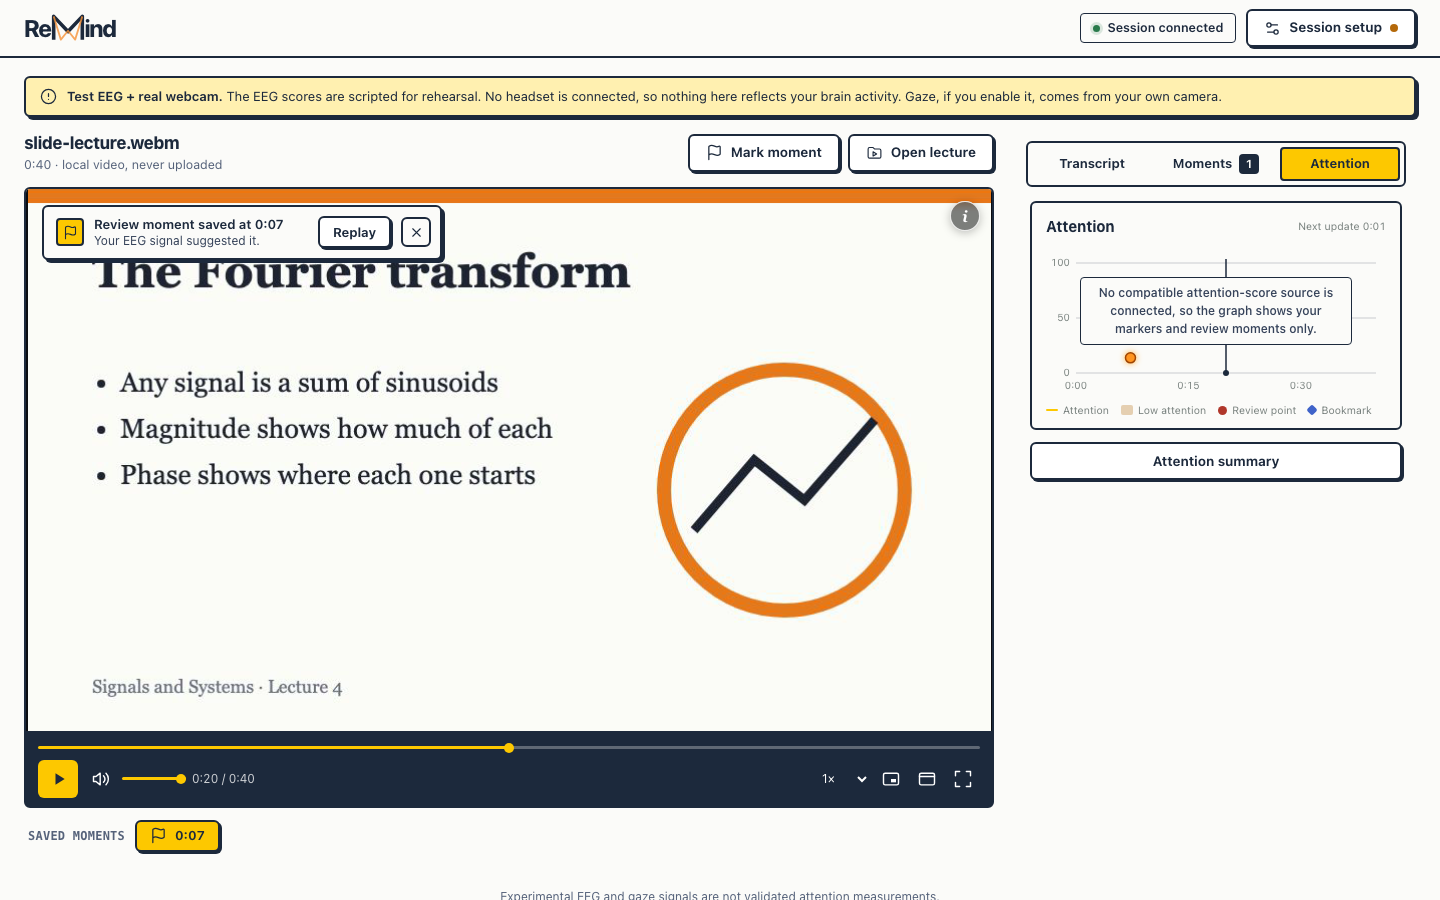
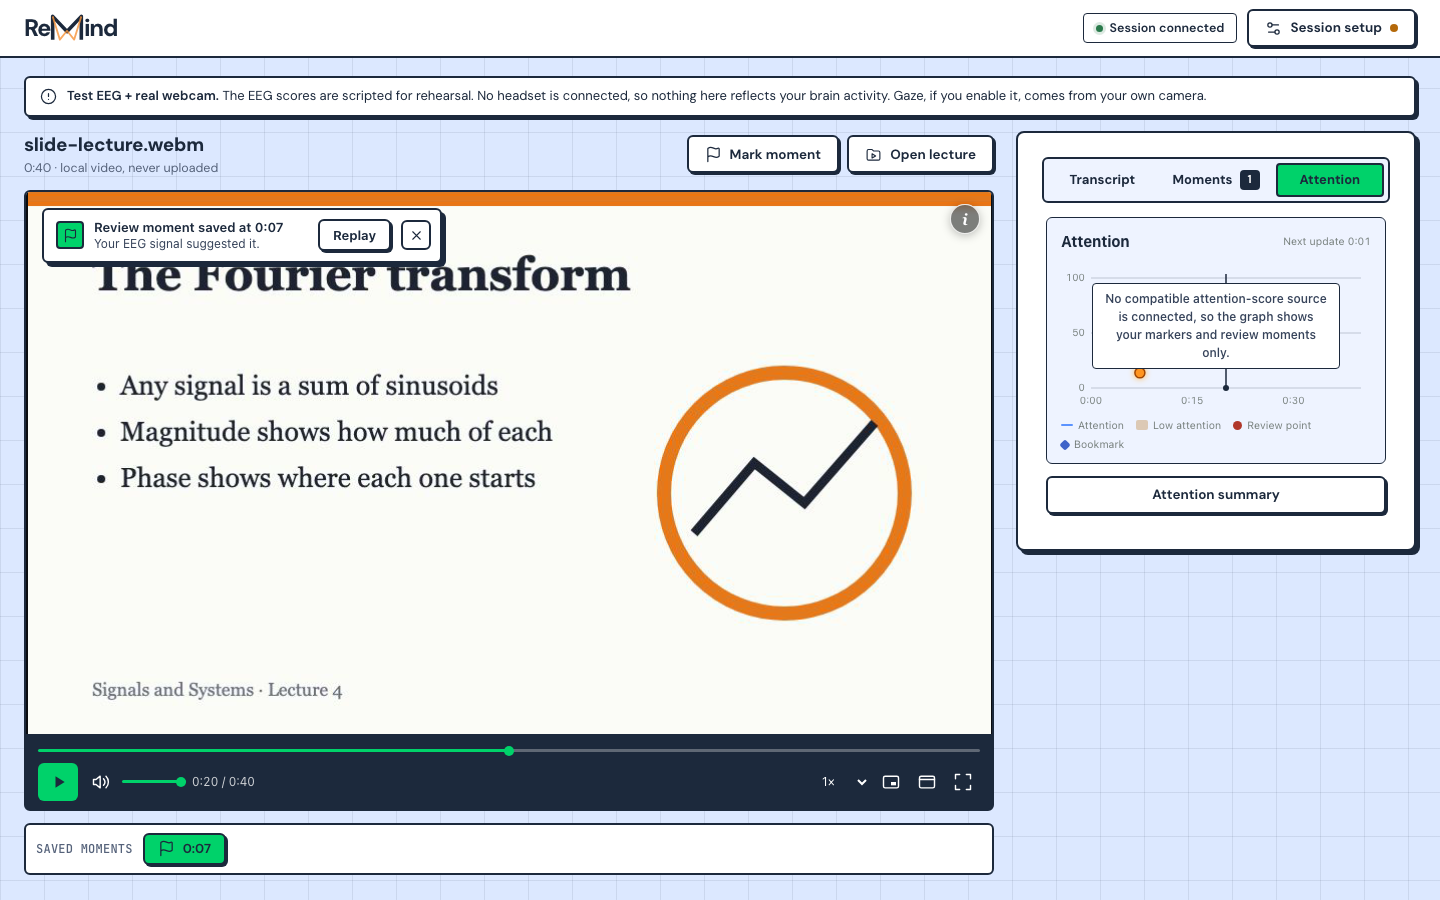
WIP: preserve unfinished ReMind redesign

diff --git a/frontend/src/product/brutal.css b/frontend/src/product/brutal.css
@@ -7,20 +7,29 @@
  */
 .app-shell[data-design='brutal'] {
   --b-ink: #1c293c;
-  --b-paper: #fbfbf9;
-  --b-wash: #f3f1ea;
-  --b-yellow: #fdc800;
-  --b-yellow-wash: #fff0b0;
-  --b-shadow: 3px 3px 0 var(--b-ink);
+  --b-paper: #ffffff;           /* solid reading surfaces */
+  --b-bg: #dce8ff;              /* pale blue page */
+  --b-grid: rgb(28 41 60 / 9%);
+  --b-wash: #eef3ff;
+  --b-blue: #5b93ff;
+  --b-blue-hover: #7da8ff;
+  --b-green: #00d26a;
+  --b-green-wash: #c9f6de;
+  --b-shadow: 4px 4px 0 var(--b-ink);
   --ui-paper: var(--b-paper); --ui-paper-2: var(--b-paper); --ui-surface: var(--b-paper); --ui-surface-2: var(--b-wash);
   --ui-ink: var(--b-ink); --ui-ink-2: #36435a; --ui-ink-3: #55627a;
   --ui-line: rgb(28 41 60 / 22%); --ui-line-strong: var(--b-ink); --ui-border: var(--b-ink);
-  --ui-accent: var(--b-yellow); --ui-accent-ink: var(--b-ink); --ui-accent-wash: var(--b-yellow-wash);
-  --ui-moment: var(--b-yellow); --ui-moment-wash: var(--b-yellow-wash);
+  --ui-accent: var(--b-blue); --ui-accent-ink: var(--b-ink); --ui-accent-wash: var(--b-green-wash);
+  --ui-moment: var(--b-green); --ui-moment-wash: var(--b-green-wash);
   --ui-radius: 6px; --ui-radius-lg: 8px;
-  background: var(--b-paper);
-  font-family: Inter, ui-sans-serif, system-ui, -apple-system, 'Segoe UI', sans-serif;
+  position: relative;
+  background-color: var(--b-bg);
+  background-image: linear-gradient(var(--b-grid) 1px, transparent 1px), linear-gradient(90deg, var(--b-grid) 1px, transparent 1px);
+  background-size: 44px 44px;
+  font-family: 'DM Sans Variable', 'DM Sans', ui-sans-serif, system-ui, -apple-system, 'Segoe UI', sans-serif;
+  --b-mono: 'JetBrains Mono Variable', 'JetBrains Mono', ui-monospace, Menlo, monospace;
 }
+.app-shell[data-design='brutal'] .topbar.glass-bar { background: var(--b-paper); }
 
 /* Top bar: flat, ruled. */
 .app-shell[data-design='brutal'] .topbar.glass-bar {
@@ -34,16 +43,17 @@
   box-shadow: 2px 2px 0 var(--b-ink); transition: transform var(--ui-fast, 0.12s) ease, box-shadow var(--ui-fast, 0.12s) ease, background-color var(--ui-fast, 0.12s) ease;
 }
 .app-shell[data-design='brutal'] :is(.btn, .button, .lp-open, .tp-open, .focus-tools button, .tp-toolbar button):not(.btn--icon):not(.btn--glass-icon):hover:not(:disabled) {
-  background: var(--b-yellow-wash); transform: translate(2px, 2px); box-shadow: 0 0 0 var(--b-ink); border-color: var(--b-ink);
+  background: var(--b-green-wash); transform: translate(2px, 2px); box-shadow: 0 0 0 var(--b-ink); border-color: var(--b-ink);
 }
 .app-shell[data-design='brutal'] :is(.btn, .button, .lp-open, .tp-open, .focus-tools button, .tp-toolbar button):not(.btn--icon):not(.btn--glass-icon):active:not(:disabled) {
   transform: translate(2px, 2px); box-shadow: 0 0 0 var(--b-ink); filter: brightness(0.96);
 }
-.app-shell[data-design='brutal'] :is(.btn--primary, .button--primary, .btn--flag, .import__action .lp-open):not(:disabled) { background: var(--b-yellow); color: var(--b-ink); }
-.app-shell[data-design='brutal'] :is(.btn--primary, .button--primary):hover:not(:disabled) { background: #ffd633; }
+.app-shell[data-design='brutal'] :is(.btn--primary, .button--primary, .import__action .lp-open):not(:disabled) { background: var(--b-blue); color: var(--b-ink); }
+.app-shell[data-design='brutal'] .btn--flag:not(:disabled) { background: var(--b-green); color: var(--b-ink); }
+.app-shell[data-design='brutal'] :is(.btn--primary, .button--primary, .import__action .lp-open):hover:not(:disabled) { background: var(--b-blue-hover); }
 .app-shell[data-design='brutal'] :is(.btn:disabled, .button:disabled, .focus-tools button:disabled) { background: var(--b-wash); color: #7b8597; border-color: #9aa3b2; box-shadow: none; }
 .app-shell[data-design='brutal'] .btn--icon { border-radius: 6px; color: var(--b-ink); }
-.app-shell[data-design='brutal'] .btn--icon:hover:not(:disabled) { background: var(--b-yellow-wash); }
+.app-shell[data-design='brutal'] .btn--icon:hover:not(:disabled) { background: var(--b-green-wash); }
 .app-shell[data-design='brutal'] :focus-visible { outline: 2px solid var(--b-ink); outline-offset: 2px; }
 
 /* Stage: no dark container; the lecture sits on the page inside one thin frame. */
@@ -55,42 +65,42 @@
 .app-shell[data-design='brutal'] .workspace[data-state='loaded'] .stage-title { padding-left: 0; }
 .app-shell[data-design='brutal'] .stage-title strong { font-size: 17px; font-weight: 750; letter-spacing: -0.015em; }
 .app-shell[data-design='brutal'] .workspace[data-state='loaded'] .stage-column .btn--soft { background: #fff; border-color: var(--b-ink); color: var(--b-ink); box-shadow: 2px 2px 0 var(--b-ink); }
-.app-shell[data-design='brutal'] .workspace[data-state='loaded'] .stage-column .btn--soft:hover:not(:disabled) { background: var(--b-yellow-wash); }
+.app-shell[data-design='brutal'] .workspace[data-state='loaded'] .stage-column .btn--soft:hover:not(:disabled) { background: var(--b-green-wash); }
 .app-shell[data-design='brutal'] .workspace[data-state='loaded'] .lp.lp--modern .lp-stage { border: 2px solid var(--b-ink); border-radius: 6px 6px 0 0; box-shadow: none; }
 .app-shell[data-design='brutal'] .lp.lp--modern.lp--loaded:not(.lp--maximised):not(.lp--fullscreen) .lp-stage::after { display: none; }
 
 /* Controls dock under the picture as one solid bar (no floating glass). */
 .app-shell[data-design='brutal'] .lp.lp--modern.lp--loaded:not(.lp--maximised):not(.lp--fullscreen) .lp-controls {
   position: static; inset: auto; margin-top: -2px; padding: 6px 12px 8px; border: 2px solid var(--b-ink); border-radius: 0 0 6px 6px;
-  background: var(--b-ink); backdrop-filter: none; -webkit-backdrop-filter: none; box-shadow: none; --lp-accent: var(--b-yellow); --lp-track: rgb(251 251 249 / 30%);
+  background: var(--b-ink); backdrop-filter: none; -webkit-backdrop-filter: none; box-shadow: none; --lp-accent: var(--b-green); --lp-track: rgb(251 251 249 / 30%);
 }
-.app-shell[data-design='brutal'] .lp.lp--modern.lp--loaded .lp-controls input[type='range'] { --lp-accent: var(--b-yellow); --lp-track: rgb(251 251 249 / 30%); }
-.app-shell[data-design='brutal'] .lp.lp--modern .lp-controls .lp-play { background: var(--b-yellow); color: var(--b-ink); border-radius: 6px; }
-.app-shell[data-design='brutal'] .lp.lp--modern .lp-controls .lp-play:hover:not(:disabled) { background: #ffd633; }
-.app-shell[data-design='brutal'] .lp.lp--modern .lp-controls :focus-visible { outline-color: var(--b-yellow); }
+.app-shell[data-design='brutal'] .lp.lp--modern.lp--loaded .lp-controls input[type='range'] { --lp-accent: var(--b-green); --lp-track: rgb(251 251 249 / 30%); }
+.app-shell[data-design='brutal'] .lp.lp--modern .lp-controls .lp-play { background: var(--b-green); color: var(--b-ink); border-radius: 6px; }
+.app-shell[data-design='brutal'] .lp.lp--modern .lp-controls .lp-play:hover:not(:disabled) { background: var(--b-blue-hover); }
+.app-shell[data-design='brutal'] .lp.lp--modern .lp-controls :focus-visible { outline-color: var(--b-green); }
 .app-shell[data-design='brutal'] .lp.lp--modern .lp-controls .lp-icon-button { border-radius: 6px; }
 
 /* Moment rail and heads-up. */
-.app-shell[data-design='brutal'] .moment-rail__label { font-family: ui-monospace, 'JetBrains Mono', Menlo, monospace; font-size: 12px; letter-spacing: 0.02em; text-transform: uppercase; color: var(--ui-ink-2); }
-.app-shell[data-design='brutal'] .workspace[data-state='loaded'] .stage-column .btn--flag { background: var(--b-yellow); color: var(--b-ink); }
+.app-shell[data-design='brutal'] .moment-rail__label { font-family: var(--b-mono); font-size: 12px; letter-spacing: 0.02em; text-transform: uppercase; color: var(--ui-ink-2); }
+.app-shell[data-design='brutal'] .workspace[data-state='loaded'] .stage-column .btn--flag { background: var(--b-green); color: var(--b-ink); }
 .app-shell[data-design='brutal'] .workspace[data-state='loaded'] .stage-column .btn--flag svg { color: var(--b-ink); }
 .app-shell[data-design='brutal'] .headsup__item {
   background: var(--b-paper); color: var(--b-ink); border: 2px solid var(--b-ink); border-radius: 6px; box-shadow: var(--b-shadow); backdrop-filter: none; -webkit-backdrop-filter: none;
 }
 .app-shell[data-design='brutal'] .headsup__text span { color: var(--ui-ink-2); }
-.app-shell[data-design='brutal'] .headsup__mark { background: var(--b-yellow); color: var(--b-ink); border: 2px solid var(--b-ink); border-radius: 4px; }
-.app-shell[data-design='brutal'] .headsup .btn--primary { background: var(--b-yellow); }
+.app-shell[data-design='brutal'] .headsup__mark { background: var(--b-green); color: var(--b-ink); border: 2px solid var(--b-ink); border-radius: 4px; }
+.app-shell[data-design='brutal'] .headsup .btn--primary { background: var(--b-blue); }
 
 /* Notice: yellow wash, ruled, plain. Keeps the simulated/test-data label unmistakable. */
-.app-shell[data-design='brutal'] .notice { border: 2px solid var(--b-ink); border-radius: 6px; background: var(--b-yellow-wash); color: var(--b-ink); }
+.app-shell[data-design='brutal'] .notice { border: 2px solid var(--b-ink); border-radius: 6px; background: var(--b-paper); color: var(--b-ink); }
 .app-shell[data-design='brutal'] .notice svg { color: var(--b-ink); }
 
 /* Side panel: not a card. A flat column with a rule; tabs are a segmented ruled bar. */
-.app-shell[data-design='brutal'] .side-panel { background: none; border: 0; border-radius: 0; box-shadow: none; padding: 0; }
-.app-shell[data-design='brutal'] .tabs { background: var(--b-paper); padding: 4px; gap: 4px; border: 2px solid var(--b-ink); border-radius: 6px; }
+.app-shell[data-design='brutal'] .side-panel { background: var(--b-paper); border: 2px solid var(--b-ink); border-radius: 8px; box-shadow: var(--b-shadow); padding: 14px; align-self: start; }
+.app-shell[data-design='brutal'] .tabs { background: var(--b-wash); padding: 4px; gap: 4px; border: 2px solid var(--b-ink); border-radius: 6px; }
 .app-shell[data-design='brutal'] .tab { border: 2px solid transparent; border-radius: 4px; color: var(--b-ink); font-weight: 650; box-shadow: none; }
-.app-shell[data-design='brutal'] .tab:hover { background: var(--b-yellow-wash); color: var(--b-ink); }
-.app-shell[data-design='brutal'] .tab[aria-selected='true'] { background: var(--b-yellow); border-color: var(--b-ink); color: var(--b-ink); box-shadow: none; }
+.app-shell[data-design='brutal'] .tab:hover { background: var(--b-green-wash); color: var(--b-ink); }
+.app-shell[data-design='brutal'] .tab[aria-selected='true'] { background: var(--b-green); border-color: var(--b-ink); color: var(--b-ink); box-shadow: none; }
 .app-shell[data-design='brutal'] .count-badge { background: var(--b-ink); color: var(--b-paper); border-radius: 4px; }
 .app-shell[data-design='brutal'] .panel-lede { color: var(--ui-ink-2); }
 
@@ -98,33 +108,56 @@
 .app-shell[data-design='brutal'] .tp .tp-list button.tp-sentence { border-radius: 0; }
 .app-shell[data-design='brutal'] .tp .tp-list button.tp-sentence:hover:not(:disabled) { background: var(--b-wash); }
 .app-shell[data-design='brutal'] .tp .tp-list .tp-current button.tp-sentence,
-.app-shell[data-design='brutal'] .tp .tp-list .tp-current button.tp-sentence:hover:not(:disabled) { background: var(--b-yellow-wash); box-shadow: inset 3px 0 0 var(--b-ink); color: var(--b-ink); }
-.app-shell[data-design='brutal'] .tp-time { font-family: ui-monospace, 'JetBrains Mono', Menlo, monospace; color: var(--ui-ink-2); }
+.app-shell[data-design='brutal'] .tp .tp-list .tp-current button.tp-sentence:hover:not(:disabled) { background: var(--b-green-wash); box-shadow: inset 3px 0 0 var(--b-ink); color: var(--b-ink); }
+.app-shell[data-design='brutal'] .tp-time { font-family: var(--b-mono); color: var(--ui-ink-2); }
 
 /* Review moments: list rows, not nested cards. */
 .app-shell[data-design='brutal'] .bookmark-list { gap: 0; }
 .app-shell[data-design='brutal'] .moment { background: none; border: 0; border-bottom: 1px solid var(--ui-line); border-radius: 0; box-shadow: none; padding: 14px 0; }
-.app-shell[data-design='brutal'] .moment__time { font-family: ui-monospace, 'JetBrains Mono', Menlo, monospace; font-size: 19px; font-weight: 700; color: var(--b-ink); }
+.app-shell[data-design='brutal'] .moment__time { font-family: var(--b-mono); font-size: 19px; font-weight: 700; color: var(--b-ink); }
 .app-shell[data-design='brutal'] .chip { background: none; border: 1.5px solid var(--b-ink); border-radius: 4px; color: var(--b-ink); }
 .app-shell[data-design='brutal'] .moment__text { font-weight: 560; }
-.app-shell[data-design='brutal'] .moment__actions .btn--primary { background: var(--b-yellow); }
+.app-shell[data-design='brutal'] .moment__actions .btn--primary { background: var(--b-blue); }
 
 /* Graph and summary sit flat in the panel. */
 .app-shell[data-design='brutal'] .side-panel .att-graph,
-.app-shell[data-design='brutal'] .side-panel .att-summary { background: none; border: 2px solid var(--b-ink); border-radius: 6px; box-shadow: none; }
+.app-shell[data-design='brutal'] .side-panel .att-summary { background: var(--b-wash); border: 1.5px solid var(--b-ink); border-radius: 6px; box-shadow: none; }
 .app-shell[data-design='brutal'] .side-panel .att-graph__empty { border: 1.5px solid var(--b-ink); border-radius: 4px; background: var(--b-paper); }
 
 @media (max-width: 980px) {
-  .app-shell[data-design='brutal'] .side-panel { padding: 8px 0 0; }
+  .app-shell[data-design='brutal'] .side-panel { padding: 12px; }
 }
 @media (prefers-reduced-motion: reduce) {
   .app-shell[data-design='brutal'] * { transition: none !important; }
 }
 .app-shell[data-design='brutal'] .headsup .btn--glass-icon { color: var(--b-ink); background: none; border: 2px solid var(--b-ink); border-radius: 6px; box-shadow: none; }
-.app-shell[data-design='brutal'] .headsup .btn--glass-icon:hover:not(:disabled) { background: var(--b-yellow-wash); color: var(--b-ink); }
+.app-shell[data-design='brutal'] .headsup .btn--glass-icon:hover:not(:disabled) { background: var(--b-green-wash); color: var(--b-ink); }
 
 /* Badges, chips and progress share the 2px rule; the notice carries the small offset shadow like an alert. */
 .app-shell[data-design='brutal'] .notice { box-shadow: 3px 3px 0 var(--b-ink); }
 .app-shell[data-design='brutal'] :is(.chip, .count-badge) { border-width: 2px; }
 .app-shell[data-design='brutal'] .personal-calibration progress { border: 2px solid var(--b-ink); border-radius: 6px; }
 .app-shell[data-design='brutal'] :is(.btn:disabled, .button:disabled, .focus-tools button:disabled) { opacity: 0.55; }
+
+/* Bolder, loaded type. */
+.app-shell[data-design='brutal'] .stage-title strong { font-weight: 800; font-size: 19px; }
+.app-shell[data-design='brutal'] :is(.btn, .button, .lp-open, .tp-open) { font-weight: 700; }
+.app-shell[data-design='brutal'] .tab { font-weight: 700; }
+.app-shell[data-design='brutal'] .moment__time { font-weight: 800; }
+.app-shell[data-design='brutal'] .stage-title span { color: var(--ui-ink-2); }
+.app-shell[data-design='brutal'] .moment-rail { padding: 8px 10px; background: var(--b-paper); border: 2px solid var(--b-ink); border-radius: 6px; }
+.app-shell[data-design='brutal'] .workspace[data-state='loaded'] .stage-column .moment-rail .btn--flag { background: var(--b-green); }
+
+/* Import screen: solid card on the grid with a few playful shapes (empty state only). */
+.app-shell[data-design='brutal'] .import {
+  background: var(--b-paper); border: 2px solid var(--b-ink); border-radius: 8px; box-shadow: var(--b-shadow);
+}
+.app-shell[data-design='brutal'] .import h2 { font-weight: 800; font-size: 30px; letter-spacing: -0.02em; }
+.app-shell[data-design='brutal'] .import__icon { background: var(--b-green); border: 2px solid var(--b-ink); border-radius: 8px; box-shadow: 3px 3px 0 var(--b-ink); }
+.app-shell[data-design='brutal'] .import__icon svg { color: var(--b-ink); }
+.app-shell[data-design='brutal'] .lp.lp--empty .lp-stage { background: none; border: 0; box-shadow: none; }
+.app-shell[data-design='brutal'] .import__tracking { background: var(--b-wash); border: 2px solid var(--b-ink); border-radius: 6px; }
+.decor { position: absolute; inset: 0; overflow: hidden; pointer-events: none; z-index: 0; }
+.decor svg { position: absolute; width: var(--s, 90px); height: auto; fill: var(--b-green, #00d26a); stroke: #1c293c; stroke-width: 2.5; stroke-linejoin: round; }
+.app-shell[data-design='brutal'] .topbar, .app-shell[data-design='brutal'] .workspace, .app-shell[data-design='brutal'] .page-footer { position: relative; z-index: 1; }
+@media (max-width: 760px) { .decor svg:nth-child(n+4) { display: none; } }

diff --git a/frontend/src/product/App.tsx b/frontend/src/product/App.tsx
@@ -18,6 +18,23 @@ import { useFocusReview } from '../focus/useFocusReview';
 import { SessionSetup } from './SessionSetup';
 import './product.css'; // last: must load after the player, transcript and focus styles it refines
 import './brutal.css'; // variation B, applied only with ?design=brutal
+if (typeof window !== 'undefined' && new URLSearchParams(window.location.search).get('design') === 'brutal') {
+  void import('@fontsource-variable/dm-sans');
+  void import('@fontsource-variable/jetbrains-mono');
+}
+
+/** A few playful shapes for the empty import screen of variation B. Decorative only. */
+function Decor() {
+  const star = 'M50 4 L61 36 L96 38 L68 58 L78 92 L50 72 L22 92 L32 58 L4 38 L39 36 Z';
+  const burst = 'M50 2 L58 20 L78 8 L74 30 L96 30 L82 46 L98 62 L76 62 L80 84 L60 74 L50 96 L40 74 L20 84 L24 62 L2 62 L18 46 L4 30 L26 30 L22 8 L42 20 Z';
+  const flower = 'M50 8 C70 8 74 30 62 38 C86 34 96 56 80 68 C92 84 74 98 58 86 C54 100 38 100 36 86 C20 98 4 80 18 66 C2 54 14 32 38 38 C26 28 30 8 50 8 Z';
+  const pos: Array<[string, string, string, string, string]> = [
+    [star, '4%', '10%', '84px', 'rotate(-12deg)'], [flower, '86%', '8%', '96px', 'rotate(8deg)'], [burst, '7%', '70%', '78px', 'rotate(10deg)'],
+    [star, '88%', '66%', '88px', 'rotate(18deg)'], [flower, '16%', '40%', '56px', 'rotate(-8deg)'], [burst, '78%', '38%', '52px', 'rotate(-14deg)'],
+  ];
+  return <div className="decor" aria-hidden="true">{pos.map(([d, left, top, size, rot], i) =>
+    <svg key={i} viewBox="0 0 100 100" style={{ left, top, ['--s' as string]: size, transform: rot }}><path d={d} /></svg>)}</div>;
+}
 
 type ReviewBookmark = Pick<WireReviewBookmark, 'bookmarkId' | 'source' | 'videoId' | 'suggestedMediaS'> & { endMediaS?: number };
 
@@ -373,6 +390,7 @@ export default function App() {
 
   return (
     <div className={`app-shell app-shell--${lecture ? 'loaded' : 'empty'}`} data-design={design}>
+      {design && !lecture && <Decor />}
       <header className="topbar glass-bar">
         <a className="brand" href="/" aria-label="ReMind home">
           <Wordmark />

diff --git a/frontend/e2e/shots/shots.spec.ts b/frontend/e2e/shots/shots.spec.ts
@@ -153,6 +153,7 @@ for (const design of ['current', 'brutal'] as const) {
     const token = readFileSync('frontend/test-results/shots-token', 'utf8').trim();
     await page.goto(`${SHOTS_URL}/${design === 'brutal' ? '?design=brutal' : ''}#pair=${token}`);
     await expect(page.getByText('Session connected')).toBeVisible();
+    await shot(page, `compare-${design}-empty`);
     await load(page, true);
     await page.getByRole('tab', { name: /Moments/ }).click();
     await expect(page.getByTestId('review-reminder')).toHaveCount(1, { timeout: 120_000 });
